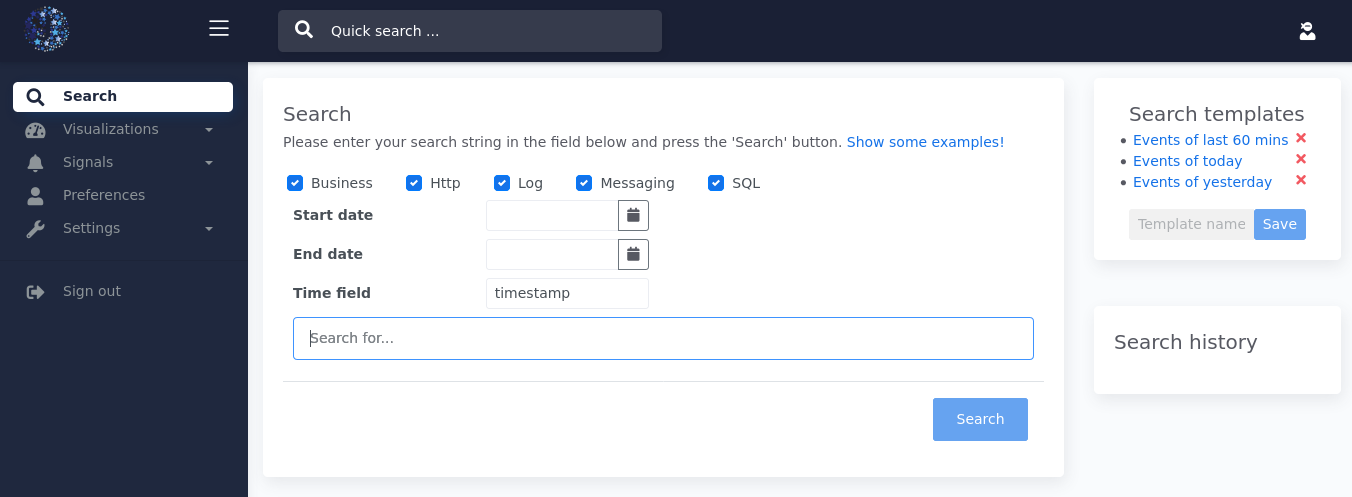
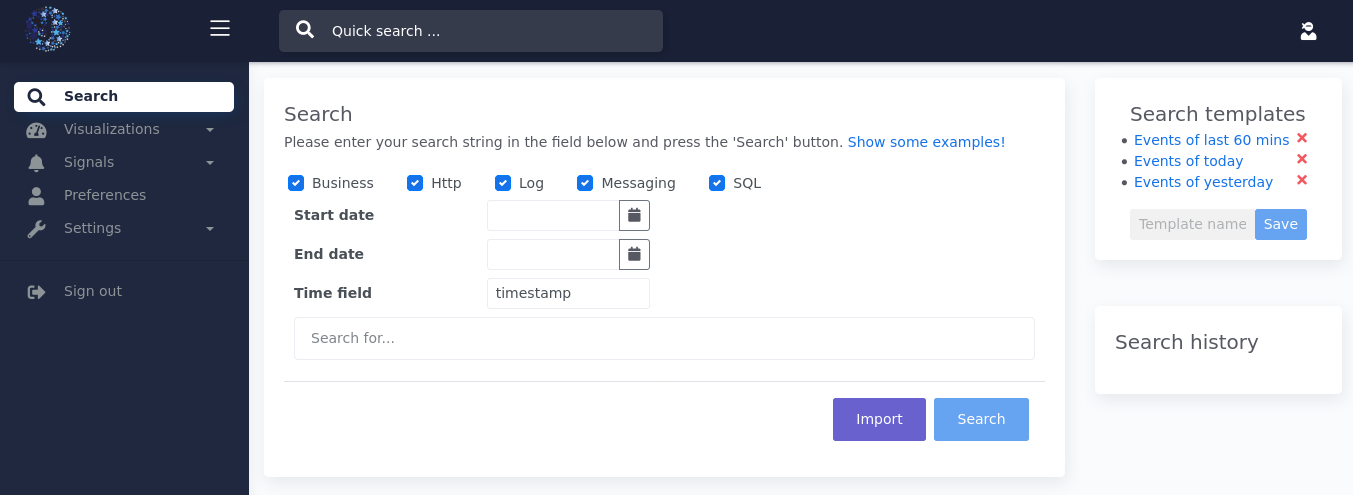
ETM-127 - Export/import queries

diff --git a/etm-gui/src/main/resources/com/jecstar/etm/gui/resources/search/index.html b/etm-gui/src/main/resources/com/jecstar/etm/gui/resources/search/index.html
@@ -183,7 +183,13 @@
                             <div class="col-md">
                                 <div id="search-card" class="card card-block">
                                     <div class="card-body">
-                                        <h3 class="card-title">Search</h3>
+                                        <h3 class="card-title">Search
+                                            <small>
+                                                <a id="lnk-export-query" href="#"
+                                                   class="mr-1 fa fa-file-export float-right"
+                                                   title="Export query" style="display: none;"></a>
+                                            </small>
+                                        </h3>
                                         <div class="card-text">
                                             <p>
                                                 Please enter your search string in the field below and press the
@@ -365,6 +371,9 @@
                                             </div>
                                             <br/>
                                             <div class="modal-footer">
+                                                <button id="btn-select-import-file"
+                                                        class="btn btn-secondary">Import
+                                                </button>
                                                 <button id="btn-search" class="btn btn-primary" type="button"
                                                         disabled="disabled">
                                                     Search
@@ -608,6 +617,31 @@
         </div>
     </div>
 </div>
+<div class="modal fade" id="modal-query-import">
+    <div class="modal-dialog" role="document">
+        <div class="modal-content">
+            <div class="modal-header">
+                <h2 class="modal-title" id="query-import-modal-label">Select a file</h2>
+                <button type="button" class="close" data-dismiss="modal" aria-label="Close">
+                    <span aria-hidden="true">&times;</span>
+                </button>
+            </div>
+            <div class="modal-body">
+                <p>Please select a file to import. Note that the file to be imported should have been exported from an
+                    ETM instance of exactly the same version as this ETM version.</p>
+                <div class="form-group row">
+                    <div class="col">
+                        <input type="file" id="query-import-file" name="files" required="required"/>
+                    </div>
+                </div>
+            </div>
+            <div class="modal-footer">
+                <button type="button" class="btn btn-secondary" data-dismiss="modal">Cancel</button>
+                <button id="btn-import-query" type="button" class="btn btn-primary">Import</button>
+            </div>
+        </div>
+    </div>
+</div>
 
 <script src="../scripts/jquery.min.js"></script>
 <script src="../scripts/popper.min.js"></script>
@@ -786,7 +820,7 @@
 
     $('#result_card').on('click', '#search_result_table tfoot a', function (event) {
         event.preventDefault();
-        var query = createQuery(true);
+        const query = createQuery(true);
         query.start_ix = tableLayout.current_ix + tableLayout.results_per_page;
         executeQuery(query, true);
     });
@@ -889,6 +923,7 @@
                 if (!data) {
                     return;
                 }
+                $('#lnk-export-query').show();
                 maxDownloads = data.max_downloads;
                 if (maxDownloads > 0) {
                     $('#link-request-download').show();
@@ -901,9 +936,9 @@
                 }
                 tableLayout.current_ix = data.start_ix;
                 if (appendToCurrent) {
-                    var endIx = $('#search-stats').text().lastIndexOf(' ');
+                    const endIx = $('#search-stats').text().lastIndexOf(' ');
                     $('#search-stats').text($('#search-stats').text().substring(0, endIx + 1) + (data.end_ix + 1) + '.');
-                    var $body = $('#search_result_table > tbody')
+                    const $body = $('#search_result_table > tbody')
                     $(data.results).each(function (index, searchResult) {
                         $body.append(function () {
                             return createResultTableRow(searchResult, data.time_zone);
@@ -924,9 +959,9 @@
                             .addClass('table table-hover table-sm')
                             .append($('<thead>')
                                 .append(function () {
-                                    var $tr = $('<tr>');
+                                    const $tr = $('<tr>');
                                     $(tableLayout.fields).each(function (index, tableColumn) {
-                                        var $th = $('<th style="padding: 0.1rem; cursor: pointer;">').text(tableColumn.name).attr('data-event-field', tableColumn.field)
+                                        const $th = $('<th style="padding: 0.1rem; cursor: pointer;">').text(tableColumn.name).attr('data-event-field', tableColumn.field)
                                         if (tableColumn.field === tableLayout.sort_field) {
                                             if ('asc' === tableLayout.sort_order) {
                                                 $th.addClass('headerSortAsc')
@@ -1050,7 +1085,6 @@
         executeQuery(createQuery(false));
         enableOrDisableSearchButton();
     }
-
 </script>
 
 </body>

diff --git a/etm-gui/src/main/resources/com/jecstar/etm/gui/resources/scripts/search-templates.js b/etm-gui/src/main/resources/com/jecstar/etm/gui/resources/scripts/search-templates.js
@@ -1,5 +1,6 @@
 let max_search_templates;
 let timeZone;
+let currentSelectedFile;
 
 $('#template-name').on('input', function() {
     if (!$(this).val()) {
@@ -245,3 +246,48 @@ function askRemoveTemplate(template) {
     $('#remove-template-name').text(template.name);
     $('#modal-template-remove').modal();
 }
+
+$('#lnk-export-query').on('click', function (event) {
+    event.preventDefault();
+    const anchor = document.createElement('a');
+    const queryData = createTemplate();
+    queryData.name = '';
+    const blob = new Blob([JSON.stringify(queryData)], {'type': 'application/json'});
+    anchor.href = window.URL.createObjectURL(blob);
+    anchor.download = 'query-export.json';
+    document.body.appendChild(anchor);
+    anchor.click();
+    document.body.removeChild(anchor);
+});
+
+$('#btn-select-import-file').on('click', function (event) {
+    event.preventDefault();
+    $('#modal-query-import').modal();
+});
+
+$('#query-import-file').on('change', function (event) {
+    const files = event.target.files;
+    if (files.length > 0) {
+        currentSelectedFile = files[0];
+    } else {
+        currentSelectedFile = null;
+    }
+});
+
+$('#btn-import-query').on('click', function (event) {
+    event.preventDefault();
+    if (currentSelectedFile) {
+        const reader = new FileReader();
+        reader.onload = function (e) {
+            const contents = e.target.result;
+            const queryData = JSON.parse(contents);
+            if ('undefined' == typeof queryData) {
+                return;
+            }
+            setValuesFromTemplate(queryData);
+            enableOrDisableButtons();
+        };
+        reader.readAsText(currentSelectedFile);
+    }
+    commons.hideModals($('#modal-query-import'));
+});

diff --git a/etm-gui/src/main/resources/com/jecstar/etm/gui/resources/scripts/signals.js b/etm-gui/src/main/resources/com/jecstar/etm/gui/resources/scripts/signals.js
@@ -263,11 +263,11 @@ function buildSignalsPage(groupName) {
         commons.hideModals($('#modal-signal-import'));
     });
 
-    $('#link-export-signal').on('click', function (event) {
+    $('#lnk-export-signal').on('click', function (event) {
         event.preventDefault();
         const anchor = document.createElement('a');
         const signalData = createSignalData();
-        const blob = new Blob([JSON.stringify(signalData)], {'type':'application/json'});
+        const blob = new Blob([JSON.stringify(signalData)], {'type': 'application/json'});
         anchor.href = window.URL.createObjectURL(blob);
         anchor.download = signalData.name + '.json';
         document.body.appendChild(anchor);
@@ -379,10 +379,10 @@ function buildSignalsPage(groupName) {
 
         if (notifierCount >= 1 && valid) {
             $('#btn-confirm-save-signal').removeAttr('disabled');
-            $('#link-export-signal').show();
+            $('#lnk-export-signal').show();
         } else {
             $('#btn-confirm-save-signal').attr('disabled', 'disabled');
-            $('#link-export-signal').hide();
+            $('#lnk-export-signal').hide();
         }
         if ($signalName.val() && isSignalExistent($signalName.val())) {
             $('#btn-confirm-remove-signal').removeAttr('disabled');

diff --git a/etm-gui/src/main/resources/com/jecstar/etm/gui/resources/scripts/graphs.js b/etm-gui/src/main/resources/com/jecstar/etm/gui/resources/scripts/graphs.js
@@ -371,11 +371,11 @@ function buildGraphsPage(groupName) {
         commons.hideModals($('#modal-graph-import'));
     });
 
-    $('#link-export-graph').on('click', function (event) {
+    $('#lnk-export-graph').on('click', function (event) {
         event.preventDefault();
         const anchor = document.createElement('a');
         const graphData = createGraphData();
-        const blob = new Blob([JSON.stringify(graphData)], {'type':'application/json'});
+        const blob = new Blob([JSON.stringify(graphData)], {'type': 'application/json'});
         anchor.href = window.URL.createObjectURL(blob);
         anchor.download = graphData.name + '.json';
         document.body.appendChild(anchor);
@@ -422,10 +422,10 @@ function buildGraphsPage(groupName) {
         valid = valid && $graphName[0].checkValidity();
         if (valid) {
             $('#btn-confirm-save-graph').removeAttr('disabled');
-            $('#link-export-graph').show();
+            $('#lnk-export-graph').show();
         } else {
             $('#btn-confirm-save-graph').attr('disabled', 'disabled');
-            $('#link-export-graph').hide();
+            $('#lnk-export-graph').hide();
         }
 
         const graphName = $graphName.val();

diff --git a/etm-gui/src/main/resources/com/jecstar/etm/gui/resources/signal/signals.html b/etm-gui/src/main/resources/com/jecstar/etm/gui/resources/signal/signals.html
@@ -86,8 +86,8 @@
                         <div class="card card-block">
                             <div class="card-body">
                                 <h3 class="card-title">Signals
-                                    <small style="font-size: 100%;">
-                                        <a id="link-export-signal" href="#" class="mr-1 fa fa-file-export float-right"
+                                    <small>
+                                        <a id="lnk-export-signal" href="#" class="mr-1 fa fa-file-export float-right"
                                            title="Export signal" style="display: none;"></a>
                                     </small>
                                 </h3>

diff --git a/etm-gui/src/main/resources/com/jecstar/etm/gui/resources/dashboard/graphs.html b/etm-gui/src/main/resources/com/jecstar/etm/gui/resources/dashboard/graphs.html
@@ -88,8 +88,8 @@
                         <div class="card card-block">
                             <div class="card-body">
                                 <h3 class="card-title">Graphs
-                                    <small style="font-size: 100%;">
-                                        <a id="link-export-graph" href="#" class="mr-1 fa fa-file-export float-right"
+                                    <small>
+                                        <a id="lnk-export-graph" href="#" class="mr-1 fa fa-file-export float-right"
                                            title="Export graph" style="display: none;"></a>
                                     </small>
                                 </h3>

diff --git a/etm-license-generator/src/main/java/com/jecstar/etm/license/LicenseReader.java b/etm-license-generator/src/main/java/com/jecstar/etm/license/LicenseReader.java
@@ -11,14 +11,13 @@ import java.security.PublicKey;
 import java.security.spec.InvalidKeySpecException;
 import java.security.spec.X509EncodedKeySpec;
 import java.util.Base64;
-import java.util.Date;
 
 class LicenseReader {
 
[1 lines of base64/hex data omitted]
 
     public static void main(String[] args) throws NoSuchAlgorithmException, InvalidKeySpecException, NoSuchPaddingException, InvalidKeyException, IllegalBlockSizeException, BadPaddingException {
[2 lines of base64/hex data omitted]
 
         KeyFactory keyFactory = KeyFactory.getInstance("RSA");
         X509EncodedKeySpec publicKeySpec = new X509EncodedKeySpec(
@@ -30,7 +29,6 @@ class LicenseReader {
 
         byte[] decryptedBytes = decrpyptCipher.doFinal(Base64.getDecoder().decode(licenseKey));
         String license = new String(decryptedBytes);
-        String[] split = license.split(":");
-        System.out.println("Licensed to " + split[0] + ", valid till " + new Date(Long.valueOf(split[1])) + ", type " + split[2]);
+        System.out.println(license);
     }
 }

diff --git a/etm-server-core/src/main/java/com/jecstar/etm/server/core/domain/aggregator/bucket/DateHistogramBucketAggregator.java b/etm-server-core/src/main/java/com/jecstar/etm/server/core/domain/aggregator/bucket/DateHistogramBucketAggregator.java
@@ -18,6 +18,7 @@ public class DateHistogramBucketAggregator extends BucketAggregator {
 
     private static final String INTERVAL = "interval";
     private static final String MIN_DOC_COUNT = "min_doc_count";
+    private static final String KEY_AUTO_INTERVAL = "auto";
 
     @JsonField(INTERVAL)
     private String interval;
@@ -52,6 +53,9 @@ public class DateHistogramBucketAggregator extends BucketAggregator {
 
 
     public DateInterval getDateInterval() {
+        if (getInterval() == null || isAutoInterval()) {
+            return null;
+        }
         if (this.dateInterval == null) {
             this.dateInterval = DateInterval.safeValueOf(getInterval());
         }
@@ -59,11 +63,18 @@ public class DateHistogramBucketAggregator extends BucketAggregator {
     }
 
     public DateHistogramInterval getDateHistogramInterval() {
+        if (getInterval() == null || isAutoInterval()) {
+            return null;
+        }
         var dateInterval = getDateInterval();
         if (dateInterval != null) {
             return dateInterval.getDateHistogramInterval();
         }
-        return new DateHistogramInterval(this.interval);
+        return new DateHistogramInterval(getInterval());
+    }
+
+    private boolean isAutoInterval() {
+        return KEY_AUTO_INTERVAL.equals(getInterval());
     }
 
     @Override

diff --git a/etm-documentation/docs/changelog/README.md b/etm-documentation/docs/changelog/README.md
@@ -20,6 +20,7 @@
 * [ETM-124](https://jecstar.atlassian.net/browse/ETM-124) Better documentation of search options in gui.
 * [ETM-125](https://jecstar.atlassian.net/browse/ETM-125) Apikey reused when creating a new user.
 * [ETM-126](https://jecstar.atlassian.net/browse/ETM-126) Allow WITH REQUEST|RESPONSE joins in Signals and Graphs.
+* [ETM-127](https://jecstar.atlassian.net/browse/ETM-127) Export/import queries.
 
 ## Version 3.5.2
 
